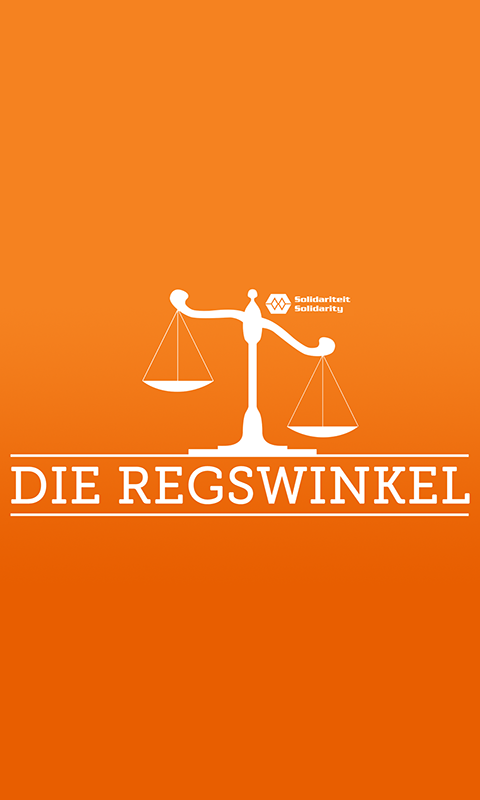
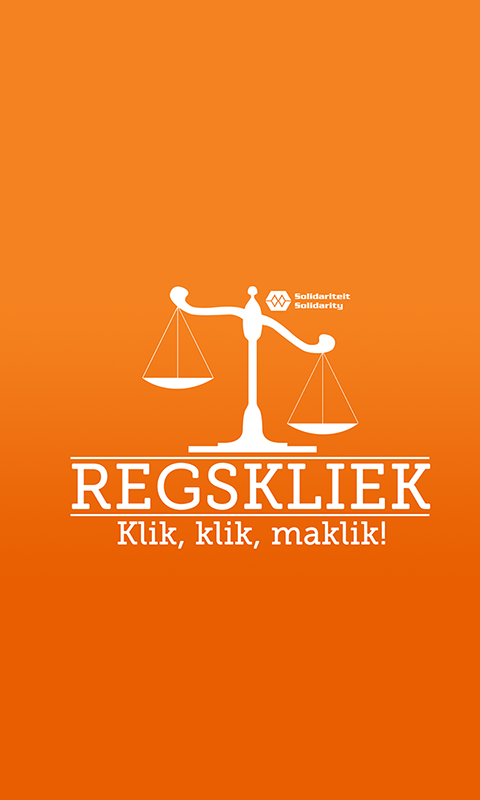
Major Updates
Name, splash and name changes

Changed region(s): [[0.0312, 0.5, 1.0, 0.6875], [0.3438, 0.3438, 0.7188, 0.5], [0.2812, 0.4062, 0.4375, 0.5]]

diff --git a/js/app.js b/js/app.js
@@ -235,15 +235,13 @@
         $scope.prePage = false;
         $scope.prePageNum = '';
         
+        //
+        
         $scope.init = function() {
             var user = $window.localStorage.getItem('username'); 
             var pass = $window.localStorage.getItem('password'); 
             
             if (user && pass) {
-                modal.show();
-                $scope.data.errorIcon = 'refresh';
-                $scope.data.errorIconSpin = 'true';
-                $scope.data.errorCode = '';
                 $http.post(apiPath + 'lookup.php', {"llookup" : "yes", "username" : user, "password" : pass})
                 .success(function(data, status){
                     if (data['loginValid'] === 'yes') {
@@ -260,14 +258,19 @@
                         $window.localStorage.setItem('password',pass); 
                         $window.localStorage.setItem('user_active',data['active']);
                         
-                        modal.hide();
-                        myNavigator.pushPage('user/home.html', { animation : 'fade' });
-                        
+                        $timeout(function(){
+                            //modal.hide();
+                            myNavigator.pushPage('user/home.html', { animation : 'fade' });
+                        },'2000');
                     } else {
                         $scope.data.errorIconSpin = 'false';
                         $scope.data.errorIcon = 'fa-exclamation-triangle';
                         $scope.data.errorCode = 'Ons kon u nie aanteken nie, probeer asb. weer...';
                         modal.show();
+                        $timeout(function(){
+                            modal.hide();
+                            myNavigator.pushPage('login.html', { animation : 'fade' });
+                        },'1000');
                     }
                 })
                 .error(function(data, status) {
@@ -275,11 +278,13 @@
                     $scope.data.errorIcon = 'fa-exclamation-triangle';
                     $scope.data.errorCode = 'Request failed ' + data + ' ' + status;
                     modal.show();
+                    $timeout(function(){
+                        modal.hide();
+                        myNavigator.pushPage('login.html', { animation : 'fade' });
+                    },'1000');
                 });
             } 
         }
-        
-        $timeout($scope.init, 1000);
         
         // process logout
         $scope.logout = function() {
@@ -1295,8 +1300,12 @@
         
         // search results
         $scope.searchFiles = function (pageNum) {
-            $scope.searchTerm = '';
-            $scope.searchTerm = $scope.data.searhFile;
+            //$scope.searchTerm = '';
+            if ($scope.searchTerm === '') {
+                $scope.searchTerm = $scope.data.searhFile;
+            } else if ($scope.data.searhFile !== '' && $scope.data.searhFile !== $scope.searchTerm) {
+                $scope.searchTerm = $scope.data.searhFile;
+            }
             console.log('Search Term', $scope.searchTerm);
             
             $scope.pageNum = '';
@@ -1677,7 +1686,7 @@
             modal.show();
         };
         
-        navigator.geolocation.getCurrentPosition(onSuccess, onError);
+        navigator.geolocation.getCurrentPosition(onSuccess, onError, { maximumAge: 3000, timeout: 5000, enableHighAccuracy: true });
     });
     
     module.controller('ccmaController', function($scope, NgMap, $timeout) {
@@ -1803,6 +1812,6 @@
             modal.show();
         };
 
-        navigator.geolocation.getCurrentPosition(onSuccess, onError);
+        navigator.geolocation.getCurrentPosition(onSuccess, onError, { maximumAge: 3000, timeout: 5000, enableHighAccuracy: true });
     });
 })();

diff --git a/index.html b/index.html
@@ -26,22 +26,8 @@
     <body ng-controller="AppController">   
         <ons-navigator title="Navigator" var="myNavigator">
             <ons-page>
-                <div class="pageBody" ng-init="init()">
-                    <h1 class="siteheader"><img src="images/scaleIcon.png" alt="" height="30" />REGSKLIEK</h1>
-                    <div style="text-align: center">
-                        <img src="images/userIcon.png" alt="" />
-                    </div>
-                    <div class="disBar">
-                        <h1>Teken aan</h1>
-                    </div>
-                    <div style="text-align: center">
-                        <p>Teken asb. aan met jou Solidariteit Wêreld Profiel om voort te gaan.</p>
-                        <ons-row><ons-col><input type="text" placeholder="Gebruikernaam" ng-model="data.username" style="width: 80%"></ons-col></ons-row>
-                        <ons-row><ons-col><input type="password" placeholder="Wagwoord" ng-model="data.password" style="width: 80%"></ons-col></ons-row>
-                        <ons-row><ons-col><button class="button submitMe" style="margin: 10px 0;"  ng-click="LogIn()">STUUR</button></ons-col></ons-row>                   
-                    </div>
-                    <button class="button button--large--quiet" ng-click="myNavigator.pushPage('recover.html', { animation : 'slide' } )"><img src="images/lockIcon.png" alt="" /> <span>Besonderhede vergeet?</span></button>
-                    <button class="button button--large--quiet" ng-click="myNavigator.pushPage('register.html', { animation : 'slide' } )"><img src="images/newUserIcon.png" alt="" /> <span>Registreer hier.</span></button>
+                <div class="BodyHome" ng-init="init()">
+                    
                 </div>
             </ons-page>
         </ons-navigator>

diff --git a/login.html b/login.html
@@ -1,0 +1,19 @@
+<ons-page>
+    <div class="pageBody">
+        <h1 class="siteheader"><img src="images/scaleIcon.png" alt="" height="30" />REGSKLIEK</h1>
+        <div style="text-align: center">
+            <img src="images/userIcon.png" alt="" />
+        </div>
+        <div class="disBar">
+            <h1>Teken aan</h1>
+        </div>
+        <div style="text-align: center">
+            <p>Teken asb. aan met jou Solidariteit Wêreld Profiel om voort te gaan.</p>
+            <ons-row><ons-col><input type="text" placeholder="Gebruikernaam" ng-model="data.username" style="width: 80%"></ons-col></ons-row>
+            <ons-row><ons-col><input type="password" placeholder="Wagwoord" ng-model="data.password" style="width: 80%"></ons-col></ons-row>
+            <ons-row><ons-col><button class="button submitMe" style="margin: 10px 0;"  ng-click="LogIn()">STUUR</button></ons-col></ons-row>                   
+        </div>
+        <button class="button button--large--quiet" ng-click="myNavigator.pushPage('recover.html', { animation : 'slide' } )"><img src="images/lockIcon.png" alt="" /> <span>Besonderhede vergeet?</span></button>
+        <button class="button button--large--quiet" ng-click="myNavigator.pushPage('register.html', { animation : 'slide' } )"><img src="images/newUserIcon.png" alt="" /> <span>Registreer hier.</span></button>
+    </div>
+</ons-page>

diff --git a/css/app.css b/css/app.css
@@ -85,6 +85,19 @@ input, textarea {
     padding: 20px;
 }
 
+.BodyHome {
+    background-image: url("../splash.png");
+    background-position-x: 0%;
+    background-position-y: 0%;
+    background-size: cover;
+    background-repeat-x: no-repeat;
+    background-repeat-y: no-repeat;
+    background-attachment: initial;
+    background-origin: initial;
+    background-clip: initial;
+    background-color: #FCFCFC;
+}
+
 .siteheader{
     font-family: museoSlab500;
     color: #f48120;

diff --git a/user/home.html b/user/home.html
@@ -1,4 +1,4 @@
-<ons-page ng-device-backbutton="disableDeviceBackButtonHandler()">
+<ons-page>
     <ons-toolbar>
         <div class="left"></div>
         <div class="center" style="text-align: right;">
